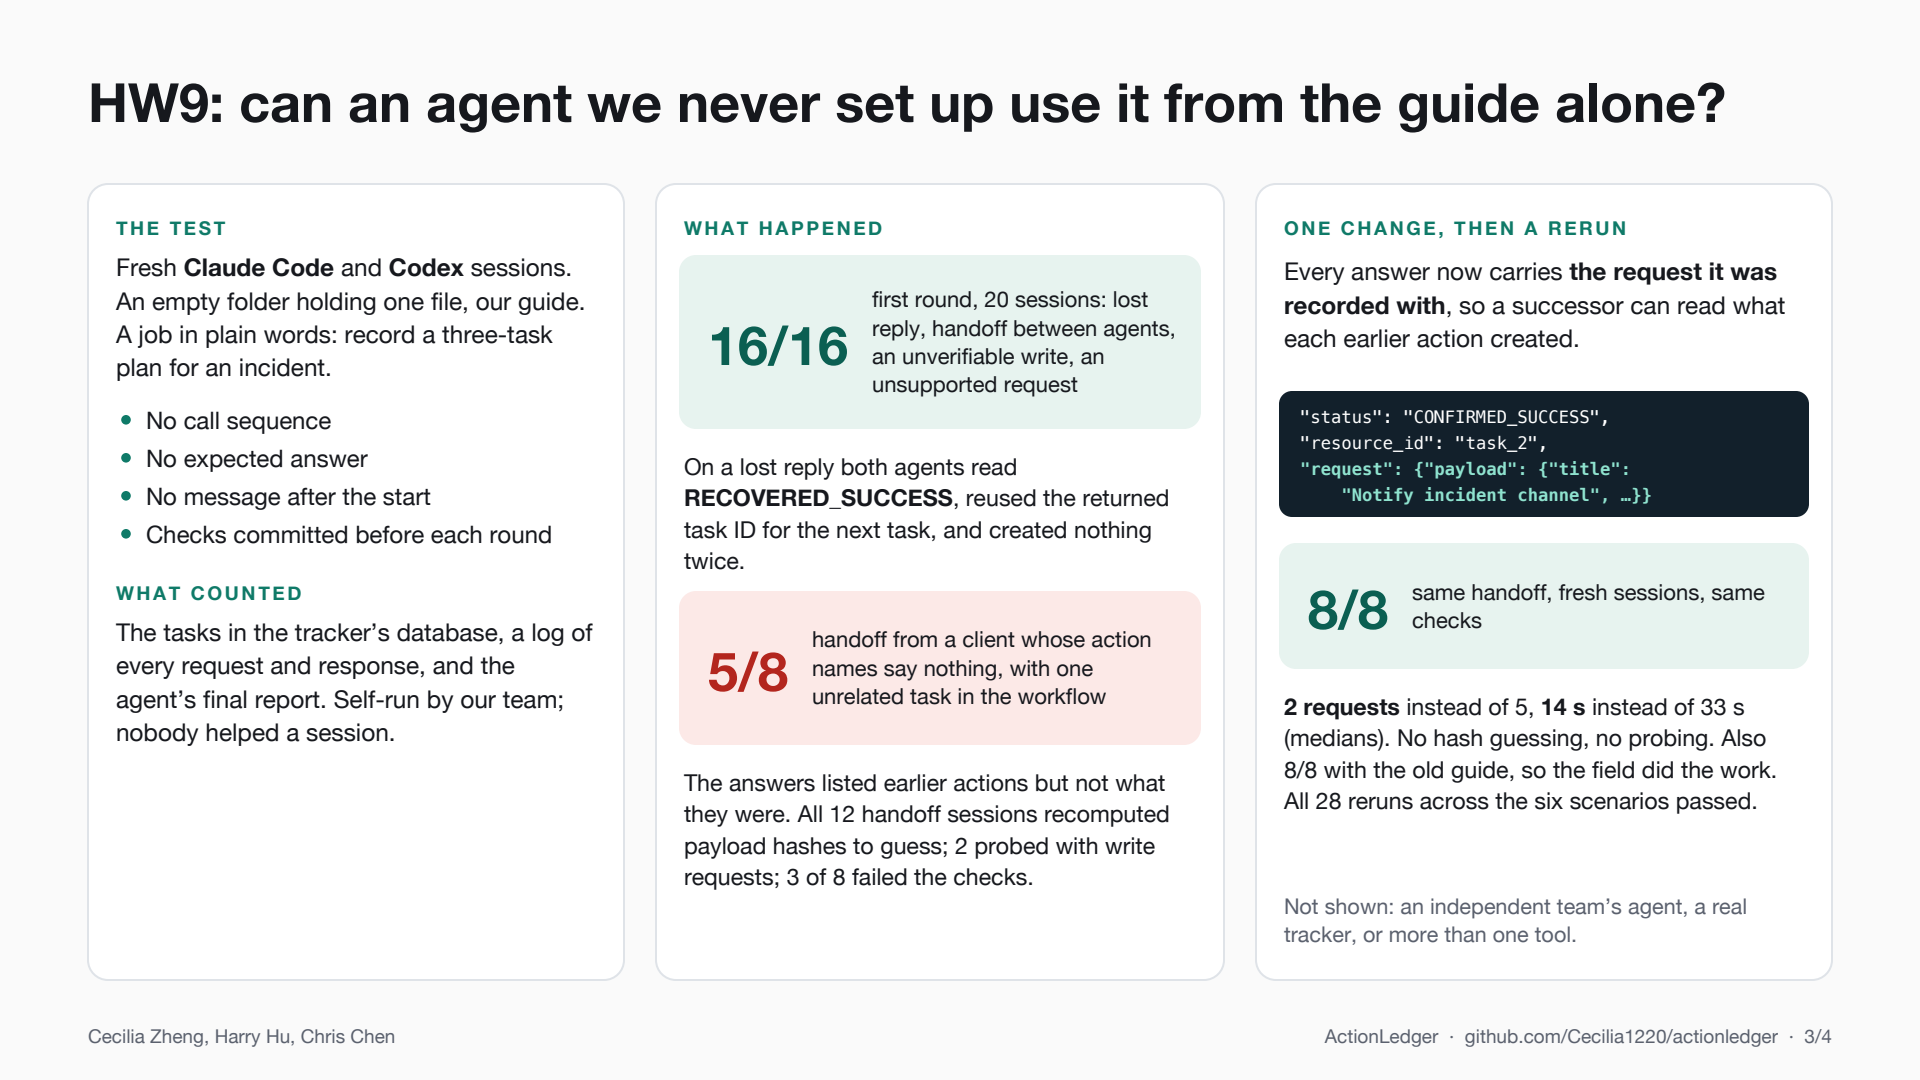
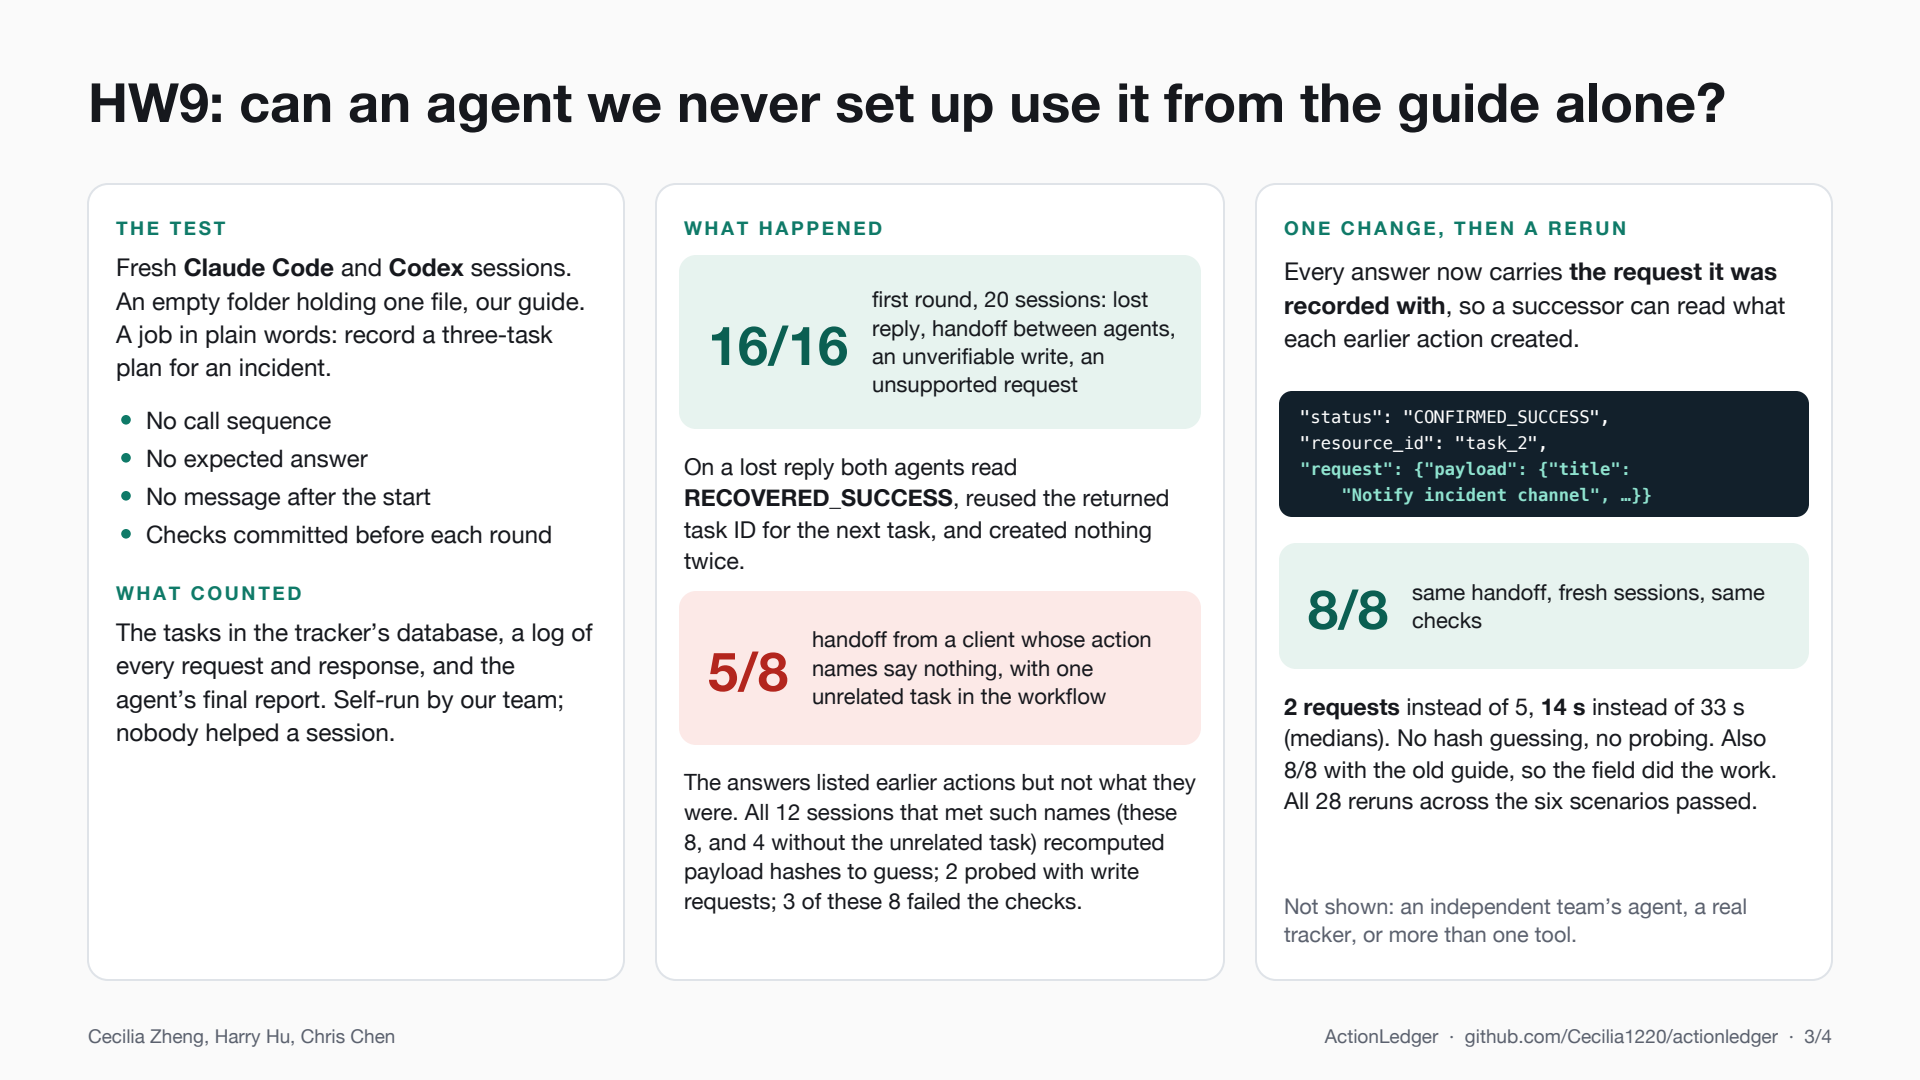
Second review fixes: true medians in the summary, clearer slide and repro wording

Changed region(s): [[0.3438, 0.7028, 0.625, 0.8556]]

diff --git a/usability/report.py b/usability/report.py
@@ -2,6 +2,7 @@
 from collections import defaultdict
 import json
 from pathlib import Path
+import statistics
 from usability.tasks import SCENARIOS
 
 EVIDENCE = Path(__file__).parent / 'evidence'
@@ -40,11 +41,11 @@ def main():
         sessions = [s for run in runs for s in run['sessions']]
         failed = [f'{run["run"]} ({", ".join(k for k, ok in run["checks"].items() if not ok)})'
                   for run in runs if not run['useful_result']]
-        seconds = sorted(s['seconds'] for s in sessions)
         lines += ['', f'**{name}**: {len(runs)} runs, {len(sessions)} sessions, '
-                  f'{sum(run["useful_result"] for run in runs)} useful; service commit {runs[0]["commit"]}; '
+                  f'{sum(run["useful_result"] for run in runs)} useful; commit '
+                  f'{", ".join(sorted({run["commit"] for run in runs}))}; '
                   f'{sum(run["requests"] for run in runs)} requests; median session '
-                  f'{seconds[len(seconds) // 2]} s; Claude Code spend USD '
+                  f'{statistics.median(s["seconds"] for s in sessions):.1f} s; Claude Code spend USD '
                   f'{sum(s.get("cost_usd") or 0 for s in sessions):.2f}.',
                   'Not useful: ' + ('; '.join(failed) if failed else 'none') + '.']
     (EVIDENCE / 'summary.md').write_text('\n'.join(lines) + '\n')

diff --git a/usability/run.py b/usability/run.py
@@ -29,7 +29,7 @@ MODELS = {'claude': 'claude-sonnet-5-5', 'codex': 'gpt-6-astra'}
 
 
 def agent_command(agent, prompt, workdir, last_message):
-    if agent == 'claude':  # Claude Code, headless, no user settings, memory, hooks or MCP servers
+    if agent == 'claude':  # Claude Code, headless; --bare loads no MCP servers or memory files
         return ['claude', '-p', prompt, '--bare', '--model', MODELS[agent], '--output-format', 'stream-json',
                 '--verbose', '--allowedTools', 'Bash', 'Read', '--max-turns', '40', '--no-session-persistence']
     return ['codex', 'exec', '--json', '--skip-git-repo-check', '--ephemeral', '--ignore-user-config',

diff --git a/usability/evidence/summary.md b/usability/evidence/summary.md
@@ -11,14 +11,14 @@ Useful results out of runs, by the checks fixed in docs/HW9_COLD_START_PLAN.md. 
 | S5 Handoff from a client with opaque action ids | 2/2 | 2/2 | 2/2 | 2/2 |
 | S6 Handoff, opaque ids, one unrelated task in the workflow | 2/4 | 3/4 | 4/4 | 4/4 |
 
-**r1**: 16 runs, 20 sessions, 16 useful; service commit 6963d48; 66 requests; median session 18.4 s; Claude Code spend USD 0.49.
+**r1**: 16 runs, 20 sessions, 16 useful; commit 6963d48; 66 requests; median session 17.9 s; Claude Code spend USD 0.49.
 Not useful: none.
 
-**r1b**: 12 runs, 12 sessions, 9 useful; service commit 172d84e; 50 requests; median session 31.9 s; Claude Code spend USD 0.54.
+**r1b**: 12 runs, 12 sessions, 9 useful; commit 0cbfce6, 172d84e; 50 requests; median session 30.6 s; Claude Code spend USD 0.54.
 Not useful: s6-claude-r1 (report_complete_flag); s6-claude-r3 (task_count, titles_and_parent_chain, report_complete_flag, reported_ids_match_tracker); s6-codex-r1 (task_count, titles_and_parent_chain, report_complete_flag, reported_ids_match_tracker).
 
-**r2**: 28 runs, 32 sessions, 28 useful; service commit 542011c; 89 requests; median session 16.9 s; Claude Code spend USD 0.75.
+**r2**: 28 runs, 32 sessions, 28 useful; commit 542011c; 89 requests; median session 16.7 s; Claude Code spend USD 0.75.
 Not useful: none.
 
-**r2a**: 8 runs, 8 sessions, 8 useful; service commit 6eea9e5; 16 requests; median session 16.6 s; Claude Code spend USD 0.20.
+**r2a**: 8 runs, 8 sessions, 8 useful; commit 6eea9e5; 16 requests; median session 15.3 s; Claude Code spend USD 0.20.
 Not useful: none.

diff --git a/README.md b/README.md
@@ -99,7 +99,7 @@ python -m usability.run --round my-r2 --scenarios s5,s6                  # hando
 python -m usability.report                                               # summary of the committed rounds
 ```
 
-Agent runs need the `claude` and `codex` CLIs signed in, and `ANTHROPIC_API_KEY` in `.env` for Claude Code. The runner refuses to overwrite a recorded run, so use a new round name. To repeat the rounds from before the change, check out commit `172d84e` first.
+Agent runs need the `claude` and `codex` CLIs signed in, and `ANTHROPIC_API_KEY` in `.env` for Claude Code. Use a new round name: from this version on the runner refuses to overwrite a recorded run. To repeat the rounds from before the change, check out commit `172d84e` first; that older runner replaces a run folder of the same name.
 
 Results: 16/16 useful in round 1. A handoff from a client whose action ids say nothing, with one unrelated task in the workflow, worked 5/8 times; agents recomputed payload hashes or probed with writes to guess what earlier actions were. After answers carried the recorded `request` it worked 8/8, and 8/8 again with the round 1 guide. Evidence for all 64 runs (task text, request log, agent transcript, tracker and ledger state, checks) is under `usability/evidence/` with a table in `usability/evidence/summary.md`; the slides and the demo video are in `docs/hw9/`.
 

diff --git a/docs/HW9_COLD_START_PLAN.md b/docs/HW9_COLD_START_PLAN.md
@@ -152,7 +152,7 @@ Nothing above was edited. These are the places where what happened differs from 
   a login shell that sourced the user's profile. None of these carries project knowledge; across all
   transcripts the sessions only read the guide, called the service, hashed strings locally and wrote scratch
   files.
-- **Checker.** The checks for S1–S4 were fixed before round 1. Adding S5 and S6 changed two lines of
+- **Checker.** The checks for S1–S4 were fixed before round 1. Adding S5 and S6 changed three lines of
   `usability/check.py` (seeded tasks count as written through the ledger; the plan-task count is capped at
   three) in the same commit as the addendum, before those runs. S1–S4 outcomes are unaffected.
 - **More S6 runs than planned.** The addendum planned S6 twice per agent. Those four runs gave 2/4, so we ran
